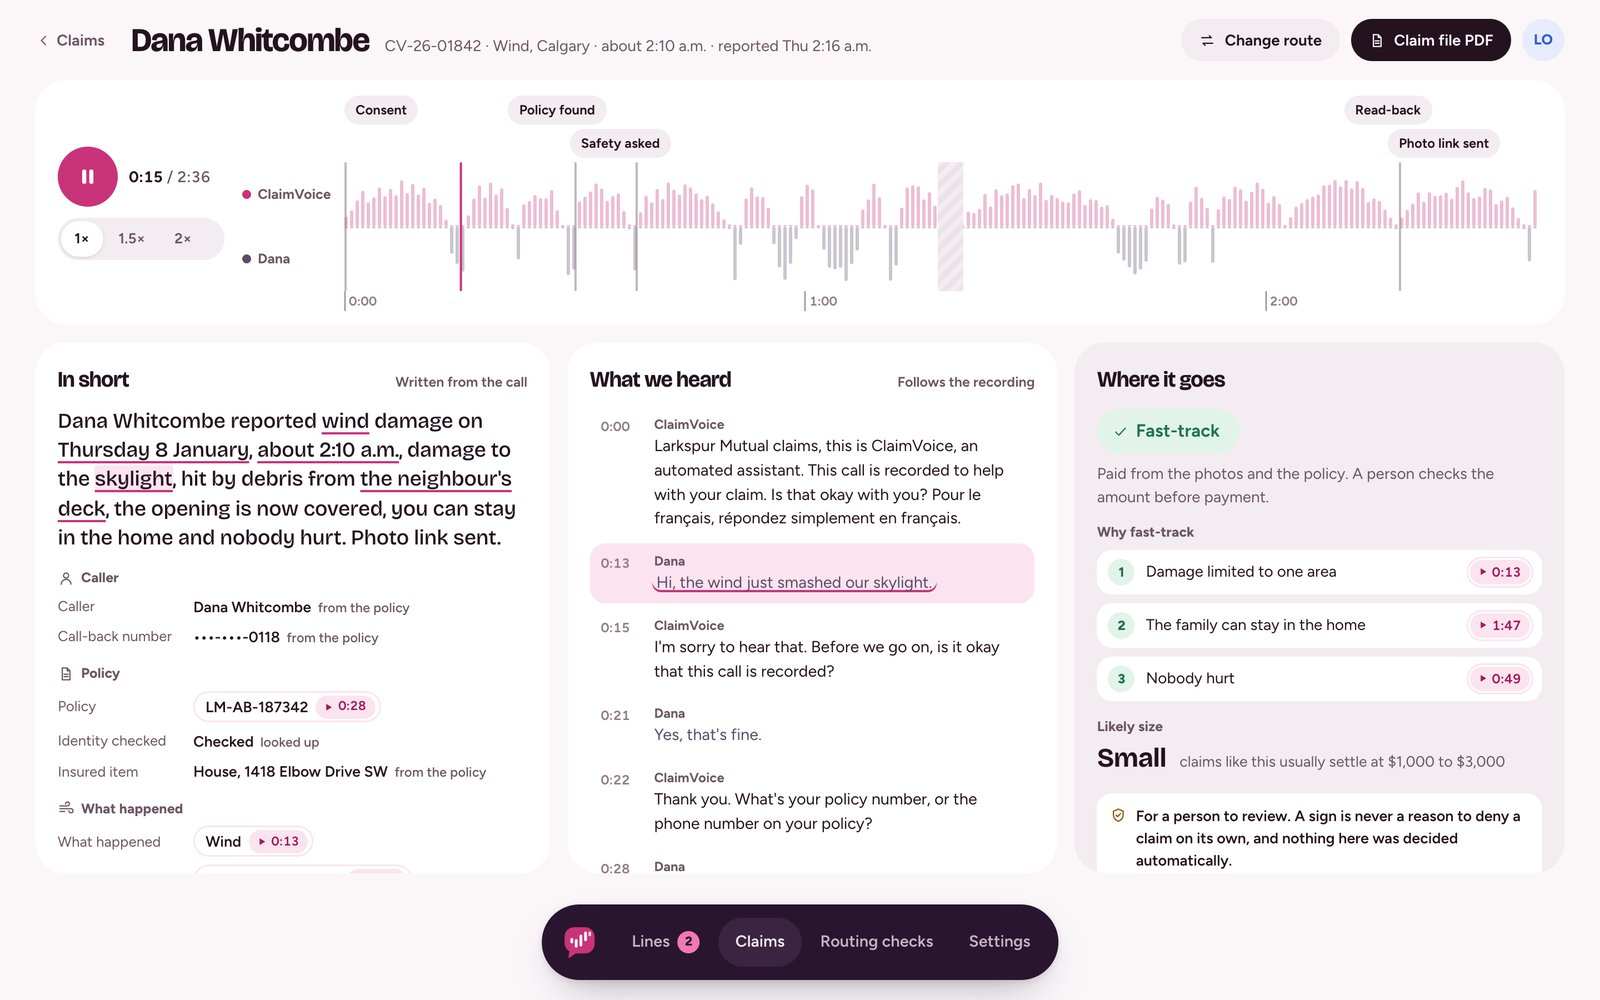
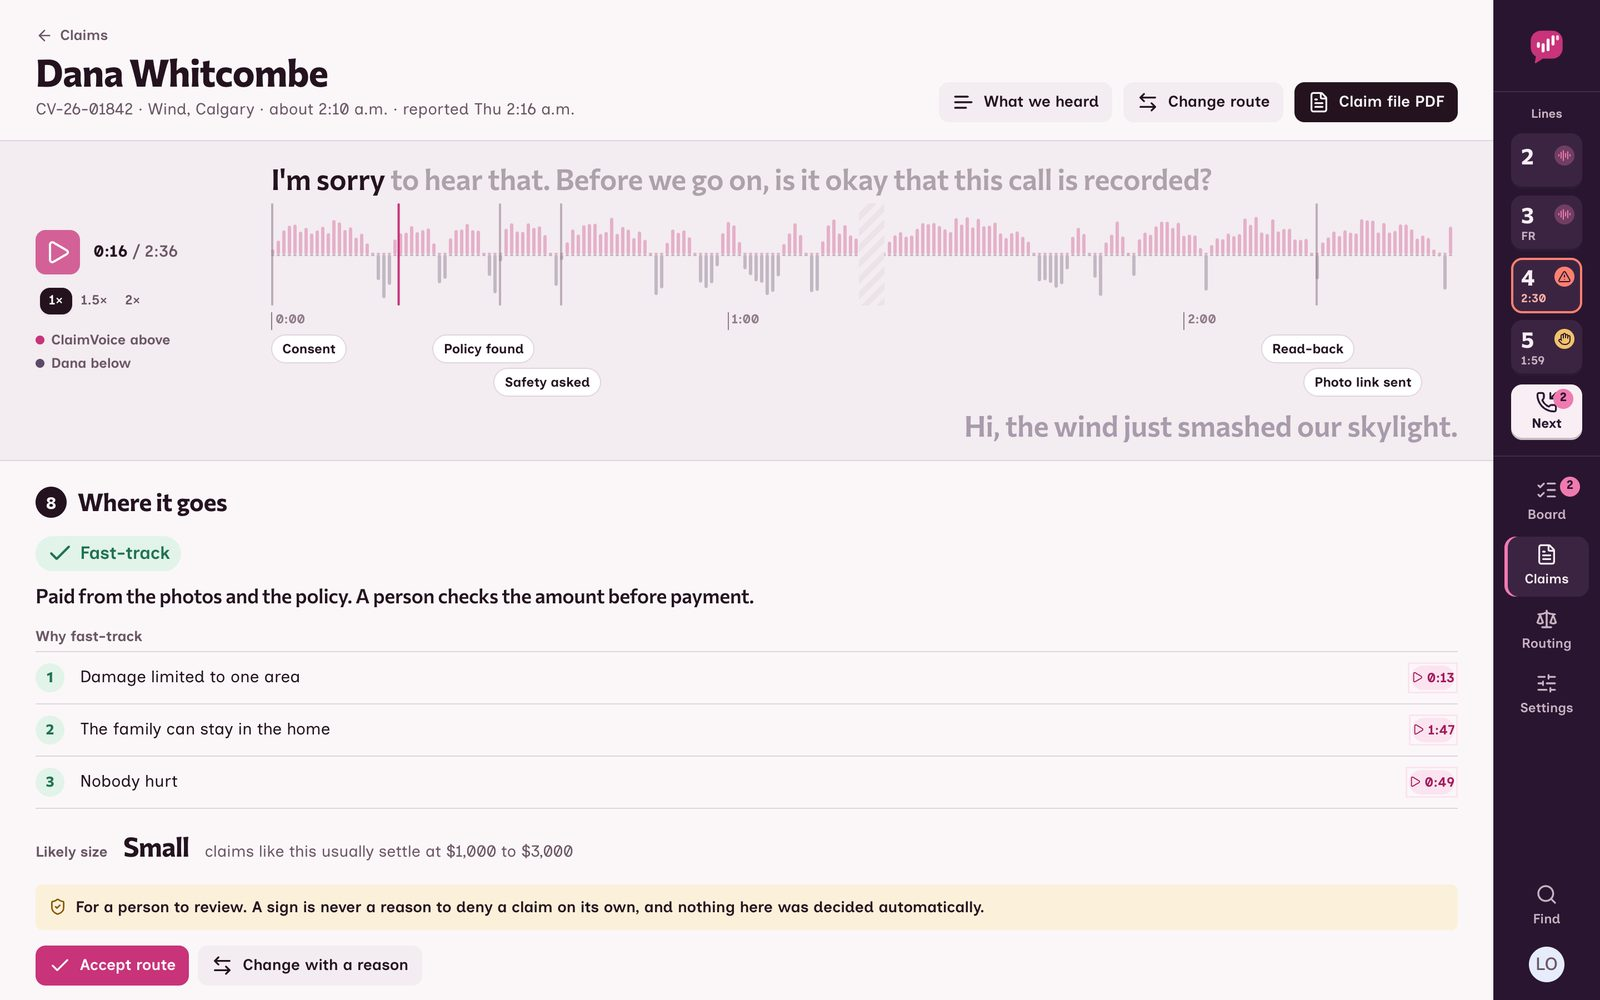
docs: the switchboard design, Nuxt UI in the stack and refreshed screenshots

diff --git a/frontend/DESIGN.md b/frontend/DESIGN.md
@@ -1,4 +1,4 @@
-# ClaimVoice frontend design: "On the line"
+# ClaimVoice frontend design: "On the line", on the switchboard
 
 > Built to this document. The design was prototyped as static pages first (landing, live call, line desk, claim file, routing checks, sign-in); the web app in `app/` is the implementation. Screens the prototype didn't cover (quality review, settings, activity, the live demo line, the photo-upload page, and the empty, loading and error states) follow §5 here. Review flags in the app: `?theme=light|dark`, `?still` (reduced motion); the landing also takes `?t=<seconds>|end`, `?play` and `?read`; the claim file takes `?signs`. Screenshots are taken with the browser clock frozen at **Thu 8 Jan 2026 07:42 America/Edmonton**.
 
@@ -6,8 +6,50 @@ ClaimVoice is a voice line that takes the **first notice of loss** (FNOL) for au
 
 - **Seed insurer:** Larkspur Mutual (Calgary, Alberta and Denver, Colorado; EN/FR service including Québec).
 - **Demo moment:** Thursday 8 January 2026, 7:42 a.m. Calgary time, the morning after an overnight Chinook windstorm (gusts over 100 km/h: roofs, siding, fences and skylights smashed by blown debris). Every displayed date sits in Dec 2025 to Jan 2026.
-- **Stack:** Nuxt 3 (Vue 3) + TypeScript + Tailwind 4.1, Motion for Vue (`motion-v`), VueUse, Web Audio `AnalyserNode` + canvas for live audio, wavesurfer.js v7 for recordings.
+- **Stack:** Nuxt 3 (Vue 3) + TypeScript + **Nuxt UI 3** (Reka UI) on Tailwind 4.1, Motion for Vue (`motion-v`), VueUse, Web Audio `AnalyserNode` + canvas for live audio, wavesurfer.js v7 for recordings.
 - **Copy date:** written as of early January 2026; anything time-sensitive is computed at runtime from `CLAIMVOICE_DEMO_TODAY`.
+
+---
+
+## 0. The switchboard (the current design; where §1–§13 differ, this section wins)
+
+The first round (§1–§13) gave ClaimVoice its palette, its two voices and its motion. Its bones were generic, though: a page header with the avatar on the right, rounded white cards on porcelain, a three-strip desk with a tray on the right, a conversation | claim-file split, and hand-rolled buttons, tags, sheets and toasts. This round keeps everything a caller or an adjuster would recognise and rebuilds the frame from how intake desks actually work.
+
+### 0.1 What the work looks like
+- **Live supervision is a list of lines with states and timers, actions on the row** (Genesys Cloud queue activity; NICE CXone live monitoring; Dialpad's listen → whisper → barge ladder). A broadcast screener's phone set is closer still: **numbered lines** with a state, a wait timer and a typed note, and a **NEXT** key that takes the longest-waiting screened caller first (Telos VSet / VXs). Listen, whisper and take over are a mixing desk's cue, talkback and on-air.
+- **During a call the record gets the room and the conversation is evidence on it** (a dispatcher's incident template; Amazon Connect's step-by-step guides "like claim submissions"; Genesys Copilot's transcript at the foot of its panel).
+- **First notice of loss is a numbered, boxed notice** (the ACORD loss notices; Guidewire ClaimCenter's FNOL wizard that becomes a claim at Finish).
+- **Review is a horizontal tape** with talk bars and moments, the transcript synced beneath and the scorecard on the same screen (Gong, Observe.AI).
+
+### 0.2 Layout: key bank · slate · tape · notice
+- **Key bank** (right edge, 96 px, aubergine in both themes; it replaces the floating dock). The mark; a numbered **line key** with a lamp for every live line, kept in line order (steady orchid = you're listening, a soft 1 Hz blink = waiting for a person, blink + red ring = urgent safety, cobalt = a person has it; every lamp also has a glyph, a word in its tooltip and an accessible name); **Next** (take the next caller in NEXT order); the feature keys Board · Claims · Quality · Routing · Settings with counts; **Find** (a command palette: lines, this morning's claims, pages; `/` or ⌘K); the avatar menu (Night line, caption size, Reduce motion, Activity log, Sign out). The line you're listening to stays lit wherever you go; its talkback controls (live wave, Whisper, Take over / Hand back, Hand off, Stop) open from its key. Phones: a key row across the top, feature keys in a drawer from the right.
+- **Slate**: the top of every page is a caption block, not a bar: back link, the title in the line's voice, one context line, page-level controls, a hairline beneath. No navigation, search or avatar.
+- **Tape**: the call across the full width. The two-voice waveform runs along the middle (live on canvas, recorded on wavesurfer.js); Larkspur's current words are written above the line, the caller's below (interim words Settle); the left column holds the line key or the play button and the talkback keys; the foot holds the whisper / say / typed-call input. "Read instead" opens the whole conversation in a slide-over from the left.
+- **Notice**: the claim as a boxed loss notice under the tape. A seven-step stepper (Consent · Policy · Safety · What happened · Photos · Coverage · Read-back) runs above numbered sections that are those same steps; each box carries its label in the corner, the value with its source (heard pill with ▸ time, "from the policy", or a dashed "Not heard yet") and a **margin note**: the caller's own words that filled it. Section 8, **Where it goes**, holds the route, its three reasons, the likely size and the signs (never a reason to deny).
+- **Board** (the supervisor's home): slate, the surge band, the Next key with who it takes, then one **ruled row per caller in NEXT order** (line key · state with glyph, word and timer · caller · "ClaimVoice asked …" or the hand-off summary with what was heard · step meter and mood · Listen / Whisper / Take over or Take the call / Listen first / Read the summary), who is free, and "Finished this morning" as a table.
+
+Screen by screen: the live call is slate → tape → notice (route as section 8 at hang-up); the claim file is slate → recorded tape → section 8 first → notice with "In short" as its remarks and photos in section 5; claims, the quality queue, consent rules, people and the routing checks' two checks are tables; a quality review is slate → tape opened at the flagged moment with rubric pins → the rubric as a numbered form (Agree / Disagree, coaching note, Done → next call); routing checks and fact sheets are numbered full-width sections (answer left, one chart right); the activity log is a timeline per day; settings sections are links under the slate; sign-in is "Pick up your lines." with the demo roles as numbered line keys; the landing's hero is the tape (ClaimVoice's first line above the line, Dana's below), with the loss notice filling beneath it as the call plays.
+
+No floating dock, no page header with an avatar, no rounded cards on porcelain, no card grids, no right-hand panels.
+
+### 0.3 Component system: Nuxt UI 3
+`@nuxt/ui` 3.3.7 (Reka UI, Tailwind 4) on Nuxt 3.17.7 (its module declares Nuxt ≥ 3.16). Theme in `app/app.config.ts`: primary = orchid, secondary = plum (the caller), info = cobalt (a person, the adjuster route), success = meadow (fast-track), warning = ochre (closer look, surge), error = scarlet (urgent), neutral = mauve; each palette is built around its token (`main.css` `@theme`), and Nuxt UI's CSS variables are pinned to the exact tokens in both themes. Soft and subtle variants use the wash + ink pairs that pass AA (a colour on its own 10 % tint does not). Icons are lucide, bundled into the client. Fonts are self-hosted (`@fontsource-variable`), with no font or icon requests at runtime.
+
+Used: UApp, UButton, UButtonGroup, UBadge (inside `CvTag` / `RouteTag`, which keep "icon + word"), UTabs, UModal (take over, hand off, change route, sign-off, invite, photo viewer, Find), USlideover (Read instead, hand-off summary), UDrawer (phone keys), UPopover (talkback, What's covered), UTooltip, UToast, UDropdownMenu (account), UCommandPalette, UTable, UPagination, UStepper, UProgress, UAccordion, UTimeline, UAlert, URadioGroup, USelectMenu, USelect, UInputMenu, UInputTags, UInput, UTextarea, USwitch, USlider, UFormField, UNavigationMenu, UAvatar, UAvatarGroup, UKbd, USkeleton. Our own, because no kit has them: the waveforms, the orb, heard values and source chips, the Hush hatch, transcript spans, the step meter and the line-key lamps. UDashboard* is not used: its sidebar + navbar is the skeleton this round removes.
+
+### 0.4 Type: Commissioner speaks, Inclusive Sans keeps the record
+- **Commissioner** (Kostas Bartsokas), a flared sans in the glyphic tradition of Optima, with its flare axis at 100 for titles, the words on the tape, the headline, names and "ClaimVoice asked …": strokes swell into their terminals, so it reads as spoken rather than drawn on a grid, calm and unhurried.
+- **Inclusive Sans** (Olivia King) for the UI, the transcript, notice labels and values, and tables: designed for legibility, with I/l/1 and 0/O kept apart (policy numbers like `LM-AB-204118`) and italics that stay readable at 13 px (the margin notes).
+- Both cover Latin Extended (French guillemets, accents, œ). No monospace and no tracked capitals; figures are tabular. Bricolage Grotesque and Figtree are retired.
+
+### 0.5 Motion
+Breathe, Settle, Pluck, Ripple, Hush, Hand, Route and Ride stay (§9). Pluck now lands in a notice box, whose rule draws orchid and settles (**Fill**); a line key's **Lamp** blinks once a second while a caller waits; a waiting row slides to its NEXT place (spring 260/26), the urgent one entering from the left; dialogs rise 24 px, slide-overs come 16 px from the left, toasts slide 8 px. `prefers-reduced-motion` and the in-app setting turn all of it into instant changes or 120 ms fades; lamps stop blinking (glyph and word still say the state).
+
+### 0.6 Palette
+Unchanged (§7), plus `--cv-rule` (`#E2D4DD` day, `#3E2C3C` night), the hairline of notice boxes and board rows. The lamps on the aubergine bank use the night-line values of their colours (amber `#F2C36B`, red `#FF8070`, cobalt `#8FAEFF`), each paired with a glyph.
+
+### 0.7 References for this round
+Genesys Cloud queue activity (https://help.genesys.cloud/?p=185887) and monitor / coach / barge (https://help.genesys.cloud/?p=69) · Amazon Connect workspace layouts (https://docs.aws.amazon.com/connect/latest/adminguide/agent-workspace-layouts.html) and step-by-step guides (https://docs.aws.amazon.com/connect/latest/adminguide/step-by-step-guided-experiences.html) · NICE CXone supervisor actions (https://help.nicecxone.com/Content/supervisorwem/supervisoractions.htm) · Gong call player (https://help.gong.io/v1/docs/listen-to-and-navigate-a-call-recording.md) · Guidewire ClaimCenter FNOL (https://docs.guidewire.com/) · Hi Marley (https://www.himarley.com/claims/) · ACORD forms (https://www.acord.org/forms-pages/acord-forms) · Telos VSet (https://telosalliance.com/Telos/Telos-VSet) and VXs operation (https://docs.telosalliance.com/docs/vxs-operation) · Computer-aided dispatch (https://en.wikipedia.org/wiki/Computer-aided_dispatch) · Nuxt UI v3 (https://ui3.nuxt.com) · Commissioner (https://github.com/kosbarts/Commissioner) · Inclusive Sans (https://github.com/LivKing/Inclusive-Sans).
 
 ---
 

diff --git a/README.md b/README.md
@@ -53,16 +53,16 @@ time. Images live in [`docs/screenshots/`](docs/screenshots/).
 
 | | |
 |---|---|
-| ![The recorded claim call, ready to play.](docs/screenshots/01-landing-opening.jpg) | ![The caller starts reading a card number; the recording pauses and the digits never appear.](docs/screenshots/03-landing-card-number-hush.jpg) |
-| **Landing call.** The recorded claim call, ready to play. | **Card number hushed.** The caller starts reading a card number; the recording pauses and the digits never appear. |
-| ![The claim file fills as you talk, and the route comes back with three reasons.](docs/screenshots/07-demo-line-claim-in.jpg) | ![The Chinook surge: three live lines and two callers waiting for a person.](docs/screenshots/09-switchboard.jpg) |
-| **Ring the demo line.** The claim file fills as you talk, and the route comes back with three reasons. | **The line desk.** The Chinook surge: three live lines and two callers waiting for a person. |
-| ![Following a live call: a whispered note, and the line asks it at its next turn.](docs/screenshots/11-live-call-whisper.jpg) | ![A two-lane recording, every phrase linked to its moment, and where the claim goes.](docs/screenshots/13-claim-file-playback.jpg) |
-| **Whisper.** Following a live call: a whispered note, and the line asks it at its next turn. | **Claim file.** A two-lane recording, every phrase linked to its moment, and where the claim goes. |
-| ![Three signs, each with where it came from, for a person to review.](docs/screenshots/14-claim-file-signs.jpg) | ![A call opened at the moment consent was missed.](docs/screenshots/16-quality-review.jpg) |
-| **Closer look.** Three signs, each with where it came from, for a person to review. | **Quality review.** A call opened at the moment consent was missed. |
-| ![Answered as plain questions, with fairness by region, language and age.](docs/screenshots/17-routing-checks-fairness.jpg) | ![The line desk at 390 px.](docs/screenshots/24-phone-switchboard.jpg) |
-| **Routing checks.** Answered as plain questions, with fairness by region, language and age. | **On a phone.** The line desk at 390 px. |
+| ![The recorded claim call is the hero: ClaimVoice's first line above the line, the caller's below.](docs/screenshots/01-landing-opening.jpg) | ![The caller starts reading a card number; the recording pauses and the digits never appear.](docs/screenshots/03-landing-card-number-hush.jpg) |
+| **Landing call.** The recorded claim call is the hero: ClaimVoice's first line above the line, the caller's below. | **Card number hushed.** The caller starts reading a card number; the recording pauses and the digits never appear. |
+| ![The claim file fills step by step as you talk, and section 8 brings back the route with three reasons.](docs/screenshots/07-demo-line-claim-in.jpg) | ![The Chinook surge as a screener's board: urgent safety first, then the longest wait, then the lines; line keys with lamps on the right.](docs/screenshots/09-switchboard.jpg) |
+| **Ring the demo line.** The claim file fills step by step as you talk, and section 8 brings back the route with three reasons. | **The board.** The Chinook surge as a screener's board: urgent safety first, then the longest wait, then the lines; line keys with lamps on the right. |
+| ![A live call as a tape over its claim file: a whispered note, and the line asks it at its next turn.](docs/screenshots/11-live-call-whisper.jpg) | ![The recording across the top with the words being said, then where the claim goes, each reason linked to its moment.](docs/screenshots/13-claim-file-playback.jpg) |
+| **Whisper.** A live call as a tape over its claim file: a whispered note, and the line asks it at its next turn. | **Claim file.** The recording across the top with the words being said, then where the claim goes, each reason linked to its moment. |
+| ![Three signs, each with where it came from, for a person to review.](docs/screenshots/14-claim-file-signs.jpg) | ![A call opened at the moment consent was missed, with the rubric as a form.](docs/screenshots/16-quality-review.jpg) |
+| **Closer look.** Three signs, each with where it came from, for a person to review. | **Quality review.** A call opened at the moment consent was missed, with the rubric as a form. |
+| ![Answered as plain questions, with fairness by region, language and age.](docs/screenshots/17-routing-checks-fairness.jpg) | ![The board at 390 px, with the line keys across the top.](docs/screenshots/24-phone-switchboard.jpg) |
+| **Routing checks.** Answered as plain questions, with fairness by region, language and age. | **On a phone.** The board at 390 px, with the line keys across the top. |
 
 ## Features by role
 
@@ -72,7 +72,7 @@ any other role.
 
 | Role | Person | What they get |
 |---|---|---|
-| **Claims supervisor** | Renée Kowalchuk (`renee.kowalchuk@larkspur.example`) | The **line desk**: one channel strip per live call with its step in the seven-step script and what has been heard so far, a hand-off tray with urgent callers first, the surge ribbon and the morning's finished claims, all kept live over Server-Sent Events. **Listen** (follow the call by live captions), **Whisper** (a typed note the line acts on; the caller never hears it), **Take over** (type, and the line says it in its own voice while ClaimVoice keeps taking notes) and hand back. Signs routing-check versions for claims |
+| **Claims supervisor** | Renée Kowalchuk (`renee.kowalchuk@larkspur.example`) | The **board**: every live line and every caller waiting for a person as one numbered row, in the order to take them (urgent safety first, then the longest wait), with the step in the seven-step script, what ClaimVoice last asked and what has been heard so far; a **Take the next caller** key; the surge band and the morning's finished claims, all kept live over Server-Sent Events. Line keys with lamps sit in the key bank on every page. **Listen** (follow the call by live captions), **Whisper** (a typed note the line acts on; the caller never hears it), **Take over** (type, and the line says it in its own voice while ClaimVoice keeps taking notes) and hand back. Signs routing-check versions for claims |
 | **Intake agent** | Jamal Haddad, Sofía Herrera, Aurélie Fortin (French), plus a standby team of two | Hand-offs that arrive with a two-line summary, so nobody asks the caller twice |
 | **Adjuster** | Lena Ortiz | The **claim file**: a two-lane recording (wavesurfer.js), the summary with every phrase linked to its moment, photos from the text link, the route with three reasons and a likely settlement range. Can change a route with a reason |
 | **Special investigator** | Dev Malhotra | Closer-look referrals: which of the 14 signs are present, and where in the call or the policy each came from, under the note that a sign is never a reason to deny a claim |
@@ -391,7 +391,7 @@ Measured on one laptop with everything offline and the demo clock set to Thursda
 
 - **Tests:** **760 backend tests** with pytest, all passing (platform, API, RBAC, tenant isolation, SSE, the call
   sink, dialogue, understanding and redaction, the voice runtime over a real SmallWebRTC data channel and the
-  WebSocket fallback, routing checks, the quality scorer and the seed story), and **82 web tests** with Vitest across
+  WebSocket fallback, routing checks, the quality scorer and the seed story), and **102 web tests** with Vitest across
   8 files (formatting, waveforms, transcripts, streams, the landing call, the API layer, the mock API and key
   components). Ruff (178 files), mypy (127 files), `nuxt typecheck` and ESLint are clean, and `alembic check` finds
   no drift.
@@ -428,7 +428,7 @@ Measured on one laptop with everything offline and the demo clock set to Thursda
   (peak 342 MB; 70 to 85 MB resident). The web server's footprint is 45 MB (peak 50 MB).
 - **Evaluation and seed:** `make eval` runs all 38 gates in about 22 s. `make reset` (migrate and seed) takes about
   4 s and builds 201 policies, 79 calls, 63 claims, 6 routing-check versions and 143 audit entries.
-- **Web build:** a clean production build takes 5 to 6 s; the output is 1.8 MB (436 kB gzipped), client and server
+- **Web build:** a clean production build takes about 9 s; the output is 2.0 MB (495 kB gzipped), client and server
   together.
 
 CI runs Ruff, mypy, a migrations check, the backend tests, the offline seed, the voice toolchain smoke test
@@ -458,7 +458,7 @@ endorsed by any regulator and not legal advice.
 | Dialogue | An explicit state machine, versioned bilingual scripts (YAML seeded into the database), rule-based EN/FR understanding with spans, optional LiteLLM reader with schema checks |
 | API and platform | Python 3.13, **Litestar** 2, msgspec, **SQLAlchemy 2 + Alembic** (SQLite by default, Postgres-ready), Argon2id, structlog, Prometheus client, Server-Sent Events |
 | Routing checks | **XGBoost** 3, scikit-learn (logistic regression, random forest, isotonic calibration), **Optuna**, **SHAP** (TreeSHAP), **MLflow** (local tracking), PSI drift, freMTPL2 via fastparquet |
-| Web | **Nuxt 3** (Vue 3), TypeScript, Tailwind CSS 4.1, Motion for Vue, VueUse, Web Audio `AnalyserNode` + canvas waveforms, **wavesurfer.js** 7 for recordings |
+| Web | **Nuxt 3** (Vue 3), TypeScript, **Nuxt UI 3** (Reka UI) themed to the pink palette, Tailwind CSS 4.1, Motion for Vue, VueUse, Web Audio `AnalyserNode` + canvas waveforms, **wavesurfer.js** 7 for recordings, Commissioner and Inclusive Sans self-hosted |
 | Quality | pytest, Ruff, mypy, ESLint, `nuxt typecheck`, Vitest, an evaluation harness with 38 gates, GitHub Actions CI |
 
 Pinned versions and why each was chosen: [ADR 0001](docs/adr/0001-toolchain-and-versions.md).
@@ -489,7 +489,7 @@ backend/
     qa/                           call-quality rubric and scorer
     settings/ seed/               scripts, consent, hand-off, retention, privacy; the Larkspur Mutual seed
   alembic/ tests/
-frontend/        Nuxt 3 app: landing, demo line, sign-in, line desk, live call, claims, quality, routing checks, settings
+frontend/        Nuxt 3 + Nuxt UI app: landing, demo line, sign-in, the board, live call, claims, quality, routing checks, settings
 eval/            evaluation harness (run.py), suites, scripted and held-out callers, labelled calls, RESULTS.md
 scripts/         freMTPL2 download, toolchain smoke checks, landing-call audio generator
 docs/            problem statement, architecture, API contract, data, compliance map, demo script, ADRs, fact sheets
